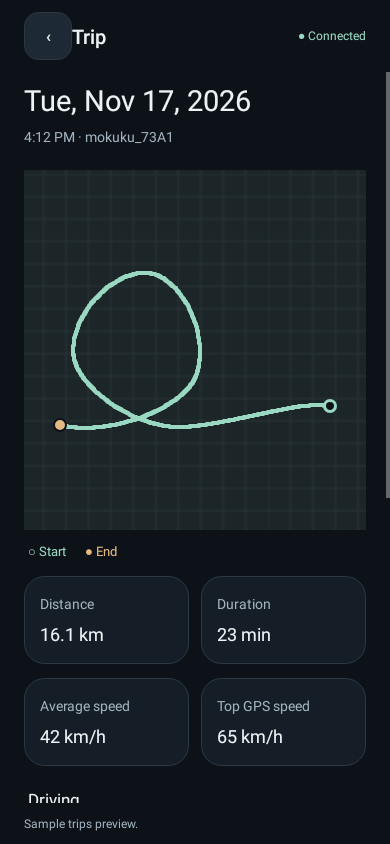
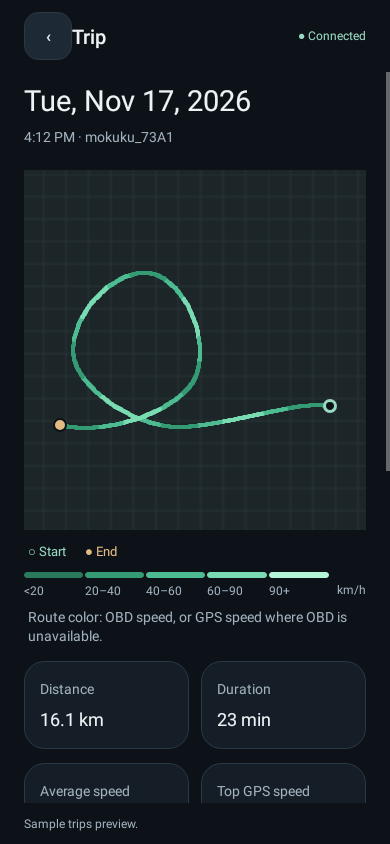
Trips: color the route by speed
The trip map draws the route in five speed bands (under 20, 20-40, 40-60,
60-90, 90+ km/h), one mint hue that brightens with speed, with a legend.
Each point uses OBD speed when the bridge reported one, otherwise GPS.

diff --git a/app/src/main/java/com/mokuku/debug/MainActivity.java b/app/src/main/java/com/mokuku/debug/MainActivity.java
@@ -1051,12 +1051,16 @@ public final class MainActivity extends Activity {
         intro(tripStart(log, "EEEdMMMyyyy"), tripStart(log, "jmm") + " · " + trip.deviceName);
         tripMap(log);
         LinearLayout legend = ui.row();
-        legend.setPadding(ui.dp(4), ui.dp(12), 0, ui.dp(16));
+        legend.setPadding(ui.dp(4), ui.dp(12), 0, ui.dp(12));
         legend.addView(ui.text("○ Start", 13, R.color.accent));
         TextView end = ui.text("● End", 13, R.color.warm);
         end.setPadding(ui.dp(18), 0, 0, 0);
         legend.addView(end);
         content.addView(legend);
+        speedLegend();
+        TextView source = ui.muted("Route color: OBD speed, or GPS speed where OBD is unavailable.");
+        source.setPadding(ui.dp(4), ui.dp(8), 0, ui.dp(16));
+        content.addView(source);
         LinearLayout first = overviewRow();
         statistic(overviewColumn(first, true), "Distance", tripDistance(log));
         statistic(overviewColumn(first, false), "Duration", tripDuration(log));
@@ -1110,6 +1114,39 @@ public final class MainActivity extends Activity {
         row.addView(column, new LinearLayout.LayoutParams(0, -2, 1));
     }
 
+    // Upper limits of the route's speed bands in km/h; the last band has none.
+    private static final int[] SPEED_BAND_LIMITS = {20, 40, 60, 90};
+    private static final int[] SPEED_COLORS = {R.color.speed_1, R.color.speed_2, R.color.speed_3, R.color.speed_4, R.color.speed_5};
+
+    private static int speedBand(double kmh) {
+        int band = 0;
+        while (band < SPEED_BAND_LIMITS.length && kmh >= SPEED_BAND_LIMITS[band]) band++;
+        return band;
+    }
+
+    private void speedLegend() {
+        LinearLayout legend = ui.row();
+        legend.setContentDescription("Route color shows speed: brighter is faster, from under 20 to over 90 km/h");
+        for (int band = 0; band < SPEED_COLORS.length; band++) {
+            LinearLayout column = ui.column();
+            View swatch = new View(this);
+            swatch.setBackground(ui.background(SPEED_COLORS[band], SPEED_COLORS[band], 3));
+            column.addView(swatch, new LinearLayout.LayoutParams(-1, ui.dp(6)));
+            String label = band == 0 ? "<" + SPEED_BAND_LIMITS[0] : band == SPEED_BAND_LIMITS.length
+                    ? SPEED_BAND_LIMITS[band - 1] + "+" : SPEED_BAND_LIMITS[band - 1] + "–" + SPEED_BAND_LIMITS[band];
+            TextView text = ui.text(label, 12, R.color.text_secondary);
+            text.setPadding(0, ui.dp(4), 0, 0);
+            column.addView(text);
+            LinearLayout.LayoutParams parameters = new LinearLayout.LayoutParams(0, -2, 1);
+            if (band > 0) parameters.leftMargin = ui.dp(2);
+            legend.addView(column, parameters);
+        }
+        TextView unit = ui.text("km/h", 12, R.color.text_secondary);
+        unit.setPadding(ui.dp(8), ui.dp(8), 0, 0);
+        legend.addView(unit);
+        content.addView(legend);
+    }
+
     private void statistic(LinearLayout parent, String title, String value) {
         LinearLayout card = ui.card(parent);
         card.addView(ui.muted(title));
@@ -1138,14 +1175,20 @@ public final class MainActivity extends Activity {
         List<org.osmdroid.util.GeoPoint> points = new ArrayList<>();
         for (double[] point : log.latitudeLongitudes()) points.add(new org.osmdroid.util.GeoPoint(point[0], point[1]));
         if (points.isEmpty()) points.add(new org.osmdroid.util.GeoPoint(log.originLatitude, log.originLongitude));
-        org.osmdroid.views.overlay.Polyline route = new org.osmdroid.views.overlay.Polyline(map);
-        route.setPoints(points);
-        route.getOutlinePaint().setColor(ui.color(R.color.accent));
-        route.getOutlinePaint().setStrokeWidth(ui.dp(4));
-        route.getOutlinePaint().setStrokeCap(android.graphics.Paint.Cap.ROUND);
-        route.getOutlinePaint().setStrokeJoin(android.graphics.Paint.Join.ROUND);
-        route.setInfoWindow(null);
-        map.getOverlays().add(route);
+        // One polyline per run of points in the same speed band, colored by the speed at each segment's end.
+        for (int first = 0; first < points.size() - 1; ) {
+            int band = speedBand(log.speedKmh[first + 1]), last = first + 1;
+            while (last + 1 < points.size() && speedBand(log.speedKmh[last + 1]) == band) last++;
+            org.osmdroid.views.overlay.Polyline route = new org.osmdroid.views.overlay.Polyline(map);
+            route.setPoints(points.subList(first, last + 1));
+            route.getOutlinePaint().setColor(ui.color(SPEED_COLORS[band]));
+            route.getOutlinePaint().setStrokeWidth(ui.dp(4));
+            route.getOutlinePaint().setStrokeCap(android.graphics.Paint.Cap.ROUND);
+            route.getOutlinePaint().setStrokeJoin(android.graphics.Paint.Join.ROUND);
+            route.setInfoWindow(null);
+            map.getOverlays().add(route);
+            first = last;
+        }
         map.getOverlays().add(endpoint(points.get(0), true));
         map.getOverlays().add(endpoint(points.get(points.size() - 1), false));
         map.getOverlays().add(new org.osmdroid.views.overlay.CopyrightOverlay(this));

diff --git a/app/src/main/java/com/mokuku/debug/TripLog.java b/app/src/main/java/com/mokuku/debug/TripLog.java
@@ -21,6 +21,8 @@ final class TripLog {
     final double[] eastMeters;
     final double[] northMeters;
     final double[] upMeters;
+    // OBD speed where the bridge reported one, otherwise GPS speed.
+    final double[] speedKmh;
     final long durationMilliseconds;
     final double distanceMeters;
     final double maximumGpsSpeedKmh;
@@ -34,6 +36,7 @@ final class TripLog {
         eastMeters = new double[count];
         northMeters = new double[count];
         upMeters = new double[count];
+        speedKmh = new double[count];
         double[] timeSeconds = new double[count], gpsSpeed = new double[count], yawRate = new double[count];
         double distance = 0, maximumSpeed = 0;
         for (int i = 0; i < count; i++) {
@@ -44,6 +47,8 @@ final class TripLog {
             upMeters[i] = points.getInt(record + 13) / 10.0;
             gpsSpeed[i] = (points.getShort(record + 17) & 0xffff) / 100.0;
             maximumSpeed = Math.max(maximumSpeed, gpsSpeed[i] * 3.6);
+            int obdSpeed = points.get(record + 19) & 0xff;
+            speedKmh[i] = obdSpeed == 255 ? gpsSpeed[i] * 3.6 : obdSpeed;
             short yaw = points.getShort(record + 20);
             yawRate[i] = yaw == Short.MIN_VALUE ? Double.NaN : yaw / 1000.0;
             if (i > 0) distance += Math.hypot(eastMeters[i] - eastMeters[i - 1], northMeters[i] - northMeters[i - 1]);

diff --git a/app/src/test/java/com/mokuku/debug/TripLogTest.java b/app/src/test/java/com/mokuku/debug/TripLogTest.java
@@ -27,9 +27,19 @@ public class TripLogTest {
     }
 
     private static byte[] point(int timeMilliseconds, int eastDecimeters, int northDecimeters, int speedCentimetersPerSecond) {
+        return point(timeMilliseconds, eastDecimeters, northDecimeters, speedCentimetersPerSecond, 255);
+    }
+
+    private static byte[] point(int timeMilliseconds, int eastDecimeters, int northDecimeters, int speedCentimetersPerSecond, int obdKmh) {
         return withCrc(ByteBuffer.allocate(TripLog.POINT_SIZE).order(ByteOrder.LITTLE_ENDIAN)
                 .put((byte) 0).putInt(timeMilliseconds).putInt(eastDecimeters).putInt(northDecimeters).putInt(0)
-                .putShort((short) speedCentimetersPerSecond).put((byte) 255).putShort((short) -32768).put((byte) 9).put((byte) 12));
+                .putShort((short) speedCentimetersPerSecond).put((byte) obdKmh).putShort((short) -32768).put((byte) 9).put((byte) 12));
+    }
+
+    @Test public void routeSpeedPrefersObdOverGps() {
+        TripLog log = TripLog.parse(trip(header(), point(0, 0, 0, 1000, 50), point(1000, 100, 0, 1000)));
+        assertEquals(50, log.speedKmh[0], 1e-9);
+        assertEquals(36, log.speedKmh[1], 1e-9);
     }
 
     private static byte[] trip(byte[]... parts) {

diff --git a/design/README.md b/design/README.md
@@ -228,7 +228,10 @@ empty state: **No trips on this phone yet**.
 
 Opening a trip shows the **Trip** subpage: the start date as the title, the start time and
 device below it, then the route drawn on an OpenStreetMap map, fitted to the trip, with a mint
-start ring and a warm end dot and a **Start** / **End** legend. The map pans and zooms and shows
+start ring and a warm end dot and a **Start** / **End** legend. The route is colored by speed
+in five bands (under 20, 20–40, 40–60, 60–90, and 90+ km/h), one mint hue that brightens as
+speed rises, with a swatch legend under the map. Each point uses OBD speed when the bridge
+reported one, otherwise GPS speed. The map pans and zooms and shows
 the OpenStreetMap attribution; without internet the route still draws over blank tiles. Below
 the map, a two-column grid shows distance, duration, average speed, and top GPS speed. A
 **Driving** heading follows with two cards:

diff --git a/README.md b/README.md
@@ -54,7 +54,8 @@ see [MOKUKU II](#mokuku-ii).
   ([format](../doc/TRIP_RECORDING.md) in MobiliMOKUKU) that the phone lacks, and the
   rest of the phone's newest trip from it, which MOKUKU may still have been recording.
   Trips stay in app-private storage, grouped by BLE address, with the connected
-  MOKUKU first. Open a trip to see its route on an OpenStreetMap map with distance,
+  MOKUKU first. Open a trip to see its route on an OpenStreetMap map, colored by speed (OBD, or GPS
+  without it), with distance,
   duration, speeds, harsh acceleration, braking, and turn counts, and a driving style
   (Smooth, Sporty, Aggressive, or Eco). **Delete older trips on MOKUKU** syncs, then deletes every
   trip on MOKUKU's SD card except the latest; nothing is deleted if any trip fails to
